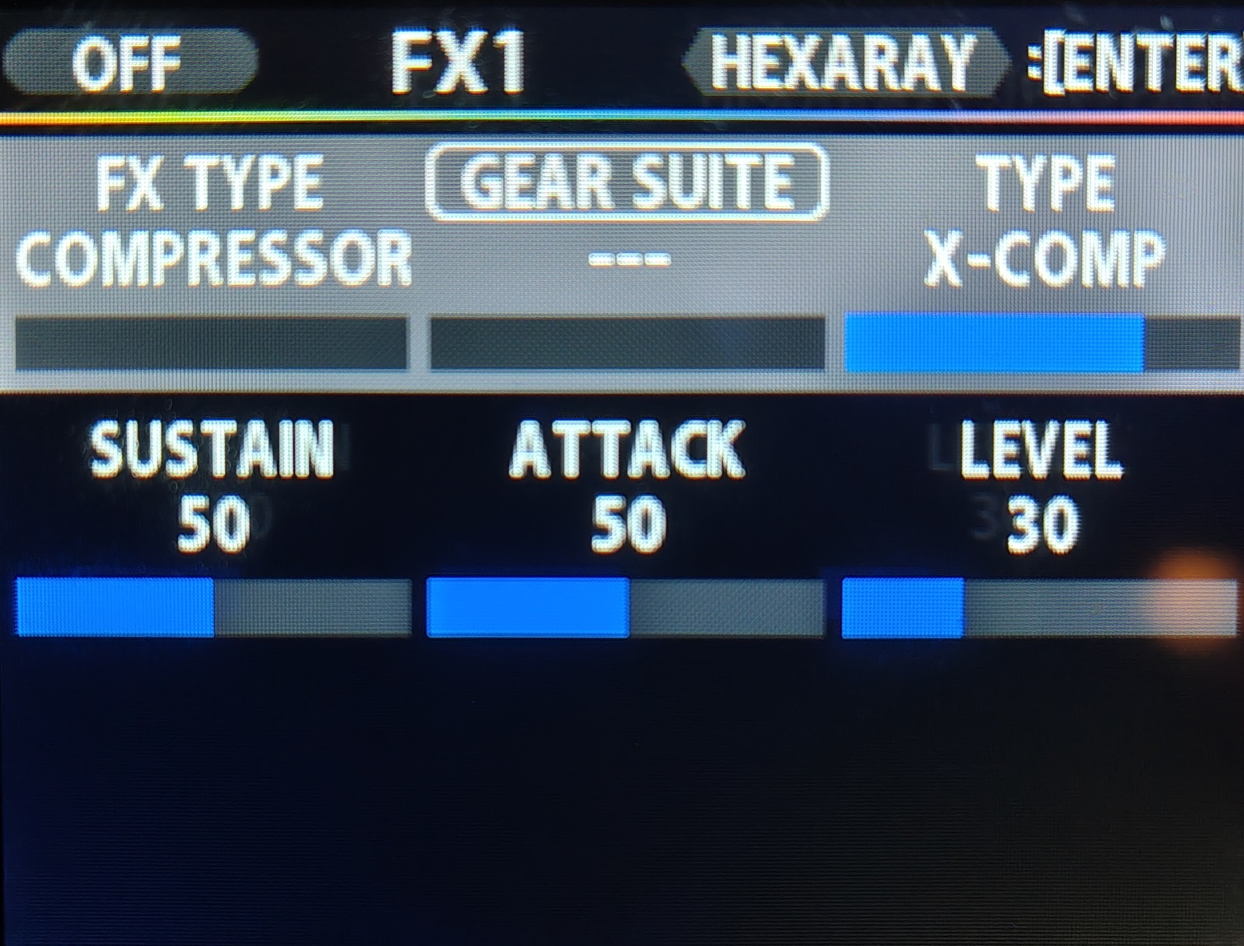
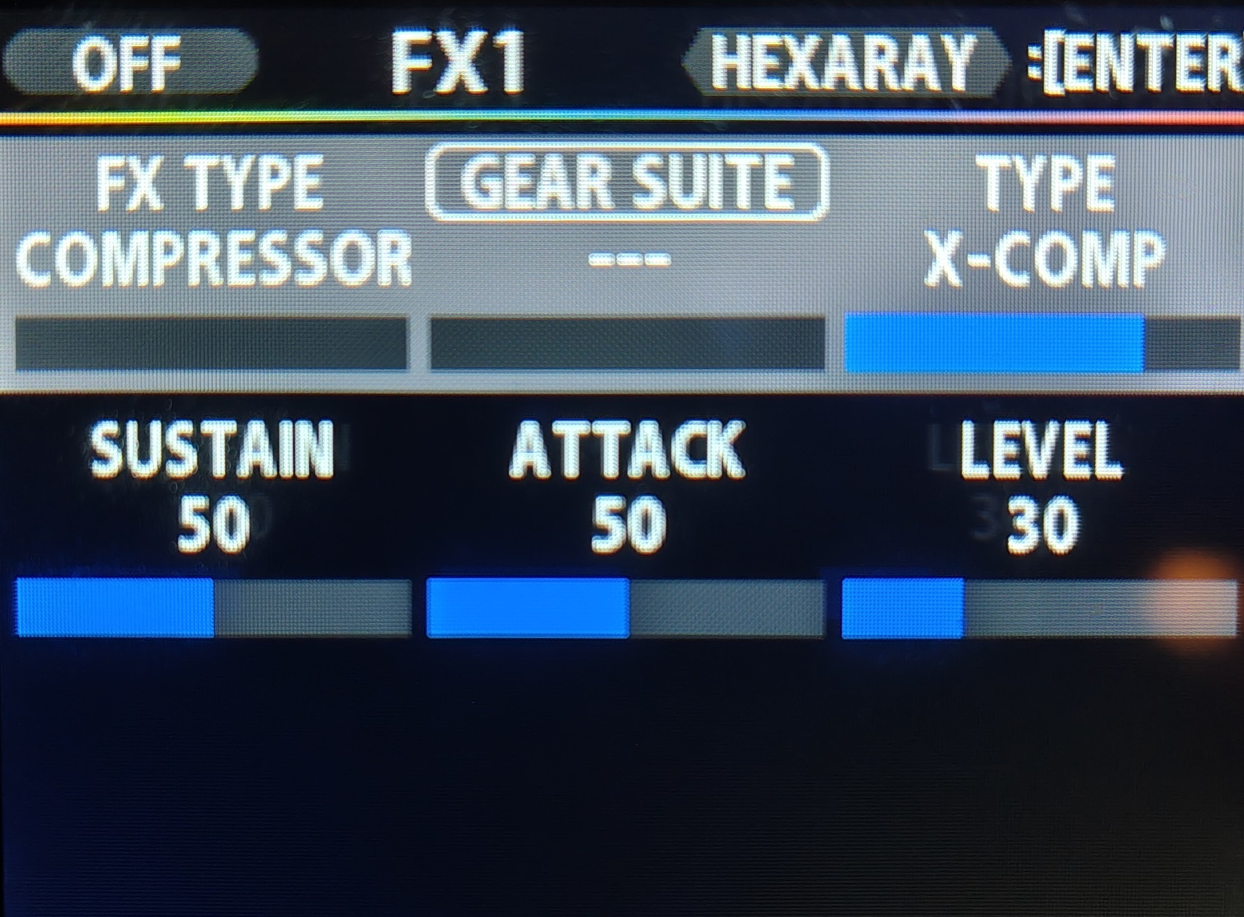
リンク先を作成

Changed region(s): [[0.0, 0.0311, 1.0, 0.7148], [0.8679, 0.9945, 0.8989, 1.0], [0.8059, 0.9945, 0.8369, 1.0]]

diff --git a/style.css b/style.css
@@ -110,5 +110,166 @@ body {
         font-size: 30px;
     }
 
+    #header1{
+        flex-direction: column;
+        height: auto;
+        margin-top: 5px;
+    }
 
+    #header1 h1 a img.icon{
+        width: 100%;
+        max-width: 70px;
+    }
+
+    #header1 h1 a{
+        font-size: 30px;
+    }
+
+    #div1 ul {
+        flex-direction: column;
+    }
+
+
+}
+
+/* effects-ichizu */
+#header1 h1 a img.icon{
+    width: 120px;
+    vertical-align: -3px
+}
+
+#header1 h1 a:hover {
+    transition: all 0.3s;
+    opacity: 0.5;
+}
+
+#header1 h1 a{
+    color: #d6dcdc;
+}
+
+
+#header1 h1 a {
+    text-decoration: none;
+    width: fit-content;
+    vertical-align: -20px
+}
+
+#header1{
+    background-color: #191616;
+    display: flex;
+    margin: 0 auto;
+    justify-content: space-between;
+    align-items: center;
+    padding: 0.5% 1%;
+}
+
+#header1 nav li  {
+    list-style: none;
+}
+
+#header1 nav ul{
+    display: flex;
+    gap: 30px;
+}
+
+#header1 li a img{
+    width: 65px;
+}
+
+#header1 nav ul a:hover  {
+    transition: all 0.3s;
+    opacity: 0.5;
+}
+
+/* effects-ichizuのbody */
+#div1 h1 {
+    color: azure;
+    text-align: center;
+    margin-top: 50px;
+    margin-bottom: 50px;
+}
+
+#div1 ul {
+    list-style: none;
+    gap: 30px;
+    flex-wrap: wrap;
+    display: flex;
+    justify-content: center;
+}
+
+#div1 img {
+    width: 100%;
+    max-width: 500px;
+    margin-bottom: 30px;
+}
+
+/* effects-boch */
+#header1 h1 a img.icon{
+    width: 120px;
+    vertical-align: -3px
+}
+
+#header1 h1 a:hover {
+    transition: all 0.3s;
+    opacity: 0.5;
+}
+
+#header1 h1 a{
+    color: #d6dcdc;
+}
+
+
+#header1 h1 a {
+    text-decoration: none;
+    width: fit-content;
+    vertical-align: -20px
+}
+
+#header1{
+    background-color: #191616;
+    display: flex;
+    margin: 0 auto;
+    justify-content: space-between;
+    align-items: center;
+    padding: 0.5% 1%;
+}
+
+#header1 nav li  {
+    list-style: none;
+}
+
+#header1 nav ul{
+    display: flex;
+    gap: 30px;
+}
+
+#header1 li a img{
+    width: 65px;
+}
+
+#header1 nav ul a:hover  {
+    transition: all 0.3s;
+    opacity: 0.5;
+}
+
+/* effects-bochのbody */
+#div2 h1 {
+    color: azure;
+    text-align: center;
+    margin-top: 50px;
+    margin-bottom: 50px;
+}
+
+#div2 ul {
+    list-style: none;
+    gap: 30px;
+    flex-wrap: wrap;
+    display: flex;
+    justify-content: center;
+}
+
+#div2 img {
+    width: 100%;
+    max-width: 500px;
+    margin-bottom: 30px;
 }

diff --git a/effect_Cant'stop_index.html b/effect_Cant'stop_index.html
@@ -1,0 +1,42 @@
+<!DOCTYPE html>
+<html lang="ja">
+<head>
+    <meta charset="UTF-8">
+    <meta name="viewport" content="width=device-width, initial-scale=1.0">
+    <link rel="stylesheet" href="https://unpkg.com/ress/dist/ress.min.css" />
+    <link rel="stylesheet" href="style.css">
+    <title>effect-Cant'stop🎸</title>
+</head>
+<body>
+    <!-- header -->
+     <header id="header1">
+        <h1>
+            <a href="http://127.0.0.1:5500/index.html">MyGX1-effects  <img src="./img/0cd5f9122f21a2fc3e2a880d126600cbe9a3dc.jpg" alt="GX1_icon" class="icon"></a>
+        </h1>
+        <nav>
+            <ul>
+                <li>
+                    <a href="https://www.soundhouse.co.jp/"target="_blank"ref="noopener noreferrer"><img src="./img/Hexagon-fill-6.png" alt="hx-red" class="red"></a>
+                </li>
+                <li>
+                    <a href="#"><img src="./img/Hexagon-fill-9.png" alt="hx-yel" class="yel"></a>
+                </li>
+                <li>
+                    <a href="https://www.ufret.jp/"target="_blank"ref="noopener noreferrer"><img src="./img/2486492609.png" alt="hx-blu" class="blu"></a>
+                </li>
+            </ul>
+        </nav>
+    </header>
+
+    <!-- body -->
+     <div id="div1">
+        <h1>Red Hot Chili Peppers"Can'tstop"</h1>
+        <ul>
+            <li><img src="./img/can'tstop_amp.jpg" alt="can'tstop_amp"><li>
+            <li><img src="./img/can'tstop_fx1.jpg" alt="can'tstop_fx1"></li>
+            <li><img src="./img/can'tstop_od.jpg" alt="can'tstop_od"></li>
+        </ul>
+    </div>
+</body>
+</body>
+</html>

diff --git a/effect_boch_index.html b/effect_boch_index.html
@@ -1,0 +1,42 @@
+<!DOCTYPE html>
+<html lang="ja">
+<head>
+    <meta charset="UTF-8">
+    <meta name="viewport" content="width=device-width, initial-scale=1.0">
+    <link rel="stylesheet" href="https://unpkg.com/ress/dist/ress.min.css" />
+    <link rel="stylesheet" href="style.css">
+    <title>effect-bocch_the_rock🎸</title>
+</head>
+<body>
+    <!-- header -->
+     <header id="header1">
+        <h1>
+            <a href="http://127.0.0.1:5500/index.html">MyGX1-effects  <img src="./img/0cd5f9122f21a2fc3e2a880d126600cbe9a3dc.jpg" alt="GX1_icon" class="icon"></a>
+        </h1>
+        <nav>
+            <ul>
+                <li>
+                    <a href="https://www.soundhouse.co.jp/"target="_blank"ref="noopener noreferrer"><img src="./img/Hexagon-fill-6.png" alt="hx-red" class="red"></a>
+                </li>
+                <li>
+                    <a href="#"><img src="./img/Hexagon-fill-9.png" alt="hx-yel" class="yel"></a>
+                </li>
+                <li>
+                    <a href="https://www.ufret.jp/"target="_blank"ref="noopener noreferrer"><img src="./img/2486492609.png" alt="hx-blu" class="blu"></a>
+                </li>
+            </ul>
+        </nav>
+    </header>
+
+    <!-- body -->
+     <div id="div2">
+        <h1>bocch the rock</h1>
+        <ul>
+            <li><img src="./img/boch_amp.jpg" alt="boch_amp"><li>
+            <li><img src="./img/boch_od.jpg" alt="boch_od"></li>
+            <li><img src="./img/boch_reverb.jpg" alt="boch_rev"></li>
+        </ul>
+    </div>
+</body>
+</body>
+</html>

diff --git a/effect_ichizu_index.html b/effect_ichizu_index.html
@@ -1,0 +1,41 @@
+<!DOCTYPE html>
+<html lang="ja">
+<head>
+    <meta charset="UTF-8">
+    <meta name="viewport" content="width=device-width, initial-scale=1.0">
+    <link rel="stylesheet" href="https://unpkg.com/ress/dist/ress.min.css" />
+    <link rel="stylesheet" href="style.css">
+    <title>effect-ichizu🎸</title>
+</head>
+<body>
+    <!-- header -->
+     <header id="header1">
+        <h1>
+            <a href="http://127.0.0.1:5500/index.html">MyGX1-effects  <img src="./img/0cd5f9122f21a2fc3e2a880d126600cbe9a3dc.jpg" alt="GX1_icon" class="icon"></a>
+        </h1>
+        <nav>
+            <ul>
+                <li>
+                    <a href="https://www.soundhouse.co.jp/"target="_blank"ref="noopener noreferrer"><img src="./img/Hexagon-fill-6.png" alt="hx-red" class="red"></a>
+                </li>
+                <li>
+                    <a href="#"><img src="./img/Hexagon-fill-9.png" alt="hx-yel" class="yel"></a>
+                </li>
+                <li>
+                    <a href="https://www.ufret.jp/"target="_blank"ref="noopener noreferrer"><img src="./img/2486492609.png" alt="hx-blu" class="blu"></a>
+                </li>
+            </ul>
+        </nav>
+    </header>
+
+    <!-- body -->
+     <div id="div1">
+        <h1>king gnu"ICHIZU"</h1>
+        <ul>
+            <li><img src="./img/ichizu_amp.jpg" alt="ichizu_amp"><li>
+            <li><img src="./img/ichizu_fx1.jpg" alt="ichizu_fx1"></li>
+        </ul>
+    </div>
+</body>
+</body>
+</html>

diff --git a/index.html b/index.html
@@ -41,9 +41,9 @@
         <!-- body -->
         <h2>Effects-station</h2>
         <ul>
-            <li><a href="#"><img src="./img/ichizu.jpg" alt="ichizu"></a></li>
-            <li><a href="#"><img src="./img/boch.jpg" alt="boch"></a></li>
-            <li><a href="#"><img src="./img/cant'stop.jpg" alt="can'tstop"></a></li>
+            <li><a href="http://127.0.0.1:5500/effect_ichizu_index.html"><img src="./img/ichizu.jpg" alt="ichizu"></a></li>
+            <li><a href="http://127.0.0.1:5500/effect_boch_index.html"><img src="./img/boch.jpg" alt="boch"></a></li>
+            <li><a href="http://127.0.0.1:5500/effect_Cant'stop_index.html"><img src="./img/cant'stop.jpg" alt="can'tstop"></a></li>
             <li><a href="#"><img src="./img/acostic.jpg" alt="acostic"></a></li>
             <!-- 順次追加範囲↓ -->
             <li><a href="#"><img src="./img/ichizu.jpg" alt="#"></a></li>
@@ -56,5 +56,4 @@
             <li><a href="#"><img src="./img/boch.jpg" alt="#"></a></li>
         </ul>
     </div>
-</body>
 </html> 
